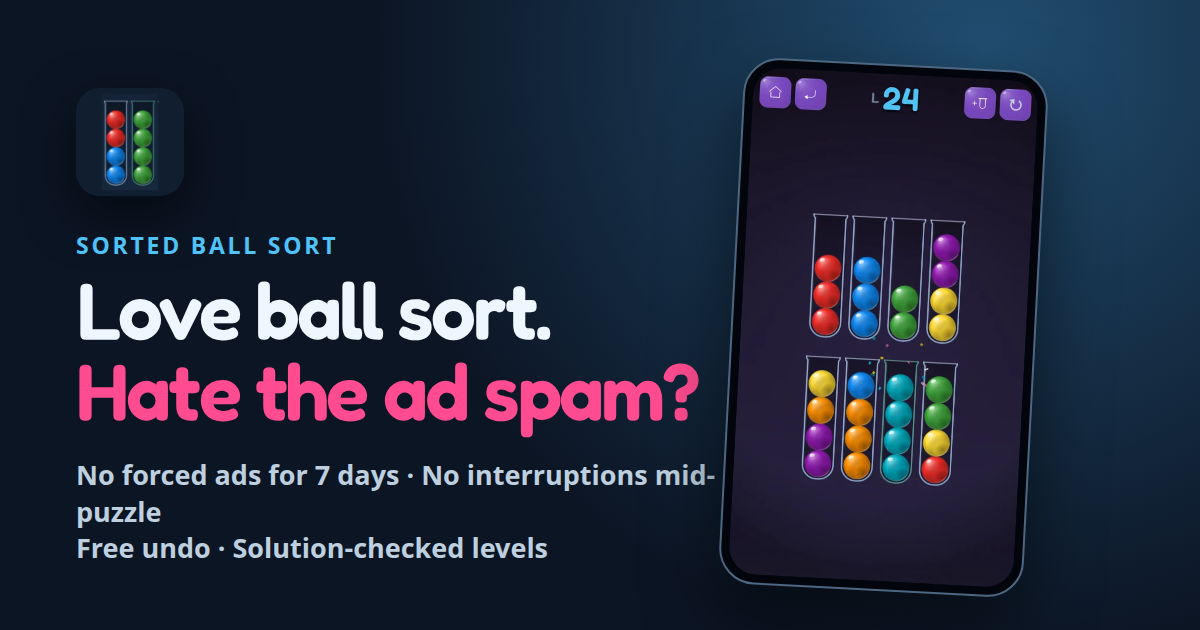
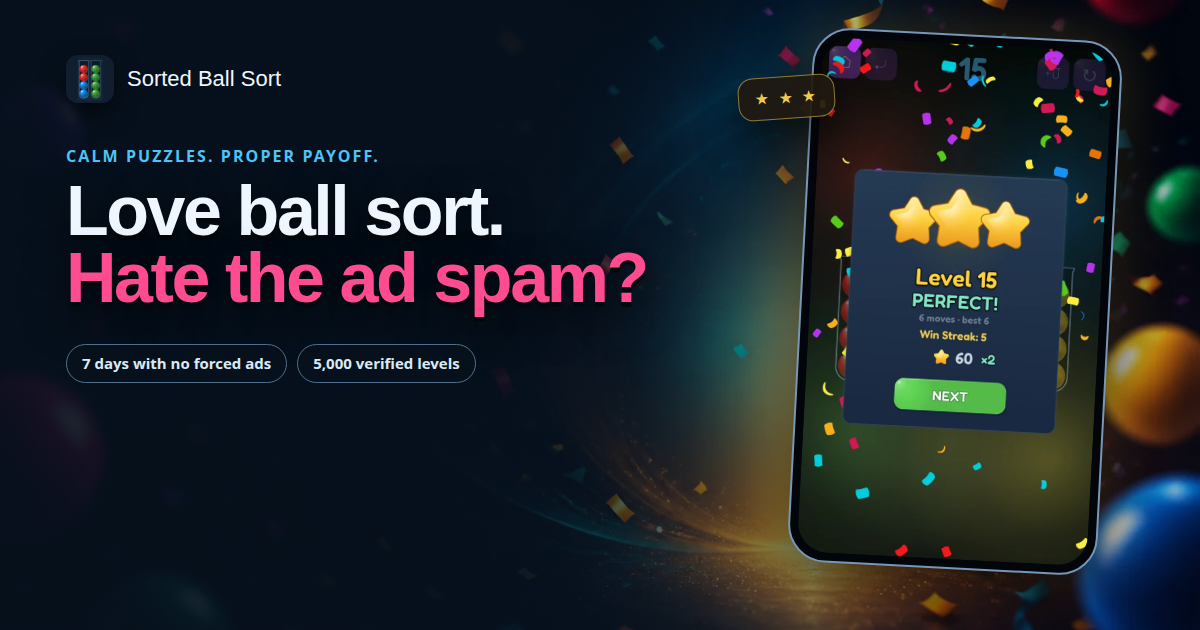
Make Sorted's celebration the visual hero

diff --git a/styles.css b/styles.css
@@ -27,6 +27,7 @@ html { scroll-behavior: smooth; }
 
 body {
   margin: 0;
+  overflow-x: hidden;
   color: var(--ink);
   background:
     radial-gradient(circle at 82% 6%, rgb(79 195 247 / 13%), transparent 28rem),
@@ -80,6 +81,8 @@ nav a { color: var(--muted); text-decoration: none; font-weight: 700; }
 nav a:hover, nav a:focus-visible { color: var(--cyan); }
 
 .hero {
+  position: relative;
+  isolation: isolate;
   display: grid;
   grid-template-columns: minmax(0, 1.1fr) minmax(340px, .9fr);
   gap: clamp(42px, 7vw, 90px);
@@ -89,6 +92,29 @@ nav a:hover, nav a:focus-visible { color: var(--cyan); }
   margin: 0 auto;
   padding: 54px 0 86px;
 }
+
+.hero-backdrop {
+  position: absolute;
+  z-index: -2;
+  inset: 10px -54px 28px;
+  border: 1px solid rgb(92 146 186 / 18%);
+  border-radius: 46px;
+  background:
+    linear-gradient(90deg, rgb(7 17 29 / 82%) 0%, rgb(7 17 29 / 42%) 45%, rgb(7 17 29 / 2%) 80%),
+    url("/assets/celebration-backdrop-v2.webp") 50% 50% / cover no-repeat;
+  box-shadow: 0 34px 100px rgb(0 0 0 / 28%);
+  opacity: .88;
+  overflow: hidden;
+}
+
+.hero-backdrop::after {
+  content: "";
+  position: absolute;
+  inset: 0;
+  background: linear-gradient(180deg, transparent 58%, var(--bg) 100%);
+}
+
+.hero-copy { position: relative; z-index: 3; }
 
 .eyebrow {
   margin: 0 0 12px;
@@ -149,8 +175,20 @@ h1 span { color: var(--pink); }
 .play-mark { width: 0; height: 0; border-top: 14px solid transparent; border-bottom: 14px solid transparent; border-left: 22px solid var(--green); filter: drop-shadow(-5px 0 0 var(--cyan)); }
 .platform-note { margin: 14px 0 0; color: var(--muted); font-size: .88rem; }
 
-.hero-visual { position: relative; display: grid; place-items: center; min-height: 620px; }
-.hero-visual::before { content: ""; position: absolute; inset: 12% 3%; border-radius: 50%; background: radial-gradient(circle, rgb(79 195 247 / 24%), transparent 68%); filter: blur(8px); }
+.hero-visual { position: relative; display: grid; place-items: center; min-height: 650px; }
+.hero-visual::before { content: ""; position: absolute; inset: 7% -8% 3%; border-radius: 50%; background: radial-gradient(circle, rgb(255 205 75 / 30%), rgb(79 195 247 / 17%) 36%, transparent 68%); filter: blur(8px); }
+
+.celebration-ring {
+  position: absolute;
+  width: min(520px, 96%);
+  aspect-ratio: 1;
+  border: 1px solid rgb(255 217 102 / 18%);
+  border-radius: 50%;
+  box-shadow:
+    0 0 0 24px rgb(79 195 247 / 4%),
+    0 0 0 62px rgb(255 76 144 / 3%),
+    inset 0 0 70px rgb(255 205 75 / 9%);
+}
 
 .phone-frame {
   position: relative;
@@ -165,6 +203,16 @@ h1 span { color: var(--pink); }
 }
 
 .phone-frame img { display: block; width: 100%; height: auto; border-radius: 33px; }
+
+.hero-phone {
+  width: min(390px, 78vw);
+  border-color: #7998b7;
+  box-shadow:
+    0 38px 90px rgb(0 0 0 / 48%),
+    0 0 55px rgb(255 208 82 / 14%),
+    inset 0 0 0 3px #111b28;
+  transform: rotate(2.5deg) translateY(4px);
+}
 
 .proof-chip {
   position: absolute;
@@ -184,6 +232,24 @@ h1 span { color: var(--pink); }
 .chip-one { top: 18%; left: -2%; transform: rotate(-3deg); }
 .chip-two { right: -3%; bottom: 17%; transform: rotate(3deg); }
 
+.fanfare-chip {
+  position: absolute;
+  z-index: 3;
+  right: 2%;
+  top: 8%;
+  display: grid;
+  gap: 3px;
+  padding: 12px 16px;
+  border: 1px solid rgb(255 217 102 / 34%);
+  border-radius: 16px;
+  color: #fff3ba;
+  background: linear-gradient(145deg, rgb(92 65 19 / 92%), rgb(35 28 23 / 94%));
+  box-shadow: 0 18px 45px rgb(0 0 0 / 38%);
+  transform: rotate(3deg);
+}
+.fanfare-chip span { color: var(--gold); font-size: .75rem; letter-spacing: .14em; }
+.fanfare-chip strong { font: 600 .88rem/1.2 "Fredoka", sans-serif; }
+
 .trust-strip {
   display: grid;
   grid-template-columns: repeat(4, 1fr);
@@ -199,6 +265,79 @@ h1 span { color: var(--pink); }
 .trust-strip div + div { border-left: 1px solid var(--panel-border); }
 .trust-strip strong { font-family: "Fredoka", sans-serif; }
 .trust-strip span { color: var(--muted); font-size: .82rem; }
+
+.celebration-section {
+  display: grid;
+  grid-template-columns: minmax(380px, .95fr) minmax(0, 1.05fr);
+  gap: clamp(42px, 7vw, 90px);
+  align-items: center;
+  padding-top: 94px;
+  padding-bottom: 94px;
+}
+
+.celebration-showcase {
+  position: relative;
+  min-height: 650px;
+  display: grid;
+  place-items: center;
+  border: 1px solid rgb(77 112 145 / 45%);
+  border-radius: 34px;
+  background:
+    linear-gradient(180deg, rgb(8 17 29 / 18%), rgb(8 17 29 / 88%)),
+    url("/assets/celebration-backdrop-v2.webp") 68% 50% / cover no-repeat;
+  box-shadow: var(--shadow);
+  overflow: hidden;
+}
+
+.celebration-showcase::after {
+  content: "";
+  position: absolute;
+  inset: auto 8% 3%;
+  height: 24%;
+  border-radius: 50%;
+  background: rgb(255 201 74 / 18%);
+  filter: blur(32px);
+}
+
+.celebration-screen {
+  position: relative;
+  z-index: 2;
+  width: min(318px, 72%);
+  padding: 8px;
+  border: 1px solid #7695b4;
+  border-radius: 40px;
+  background: #02060b;
+  box-shadow: 0 32px 70px rgb(0 0 0 / 55%), inset 0 0 0 2px #172536;
+  transform: rotate(-3deg);
+}
+
+.celebration-screen img { display: block; width: 100%; height: auto; border-radius: 32px; }
+
+.celebration-badge {
+  position: absolute;
+  z-index: 3;
+  display: flex;
+  gap: 9px;
+  align-items: center;
+  padding: 11px 15px;
+  border: 1px solid rgb(255 255 255 / 15%);
+  border-radius: 999px;
+  background: rgb(20 34 52 / 92%);
+  box-shadow: 0 16px 35px rgb(0 0 0 / 35%);
+  backdrop-filter: blur(10px);
+  font: 600 .9rem/1 "Fredoka", sans-serif;
+}
+
+.celebration-badge span { display: grid; place-items: center; width: 26px; height: 26px; border-radius: 50%; color: #07111d; }
+.badge-praise { left: 5%; top: 16%; transform: rotate(-5deg); }
+.badge-praise span { background: var(--green); }
+.badge-reward { right: 4%; bottom: 16%; transform: rotate(5deg); }
+.badge-reward span { background: var(--gold); }
+
+.celebration-copy > p:not(.eyebrow) { max-width: 650px; color: #bdccdc; font-size: 1.08rem; }
+
+.reward-notes { display: flex; flex-wrap: wrap; gap: 10px; margin-top: 30px; }
+.reward-notes span { padding: 9px 13px; border: 1px solid rgb(79 195 247 / 24%); border-radius: 999px; color: #d5e9f8; background: rgb(79 195 247 / 8%); font-size: .83rem; font-weight: 800; }
 
 .section { width: min(1160px, calc(100% - 40px)); margin: 0 auto; padding: 112px 0; }
 .section-heading { max-width: 780px; margin-bottom: 42px; }
@@ -282,6 +421,7 @@ footer p { grid-column: 1 / -1; margin: 0; font-size: .78rem; }
 @media (max-width: 960px) {
   .hero { grid-template-columns: 1fr 390px; gap: 26px; }
   .proof-chip { display: none; }
+  .fanfare-chip { right: -1%; }
   .feature-grid { grid-template-columns: repeat(2, 1fr); }
   .final-cta { grid-template-columns: auto 1fr; }
   .final-cta .store-actions { grid-column: 1 / -1; justify-content: flex-start; }
@@ -290,14 +430,20 @@ footer p { grid-column: 1 / -1; margin: 0; font-size: .78rem; }
 @media (max-width: 760px) {
   .site-header nav { display: none; }
   .hero { display: flex; flex-direction: column; min-height: 0; padding-top: 56px; }
+  .hero-backdrop { inset: 14px -10px 18px; background-position: 66% 50%; }
   .hero-copy { text-align: center; }
   .hero-copy .store-actions { justify-content: center; }
-  .hero-visual { min-height: 550px; }
+  .hero-visual { width: 100%; min-height: 600px; }
+  .hero-visual::before { inset: 7% 0 3%; }
+  .fanfare-chip { right: 4%; top: 6%; }
   .trust-strip { grid-template-columns: repeat(2, 1fr); }
   .trust-strip div:nth-child(3) { border-left: 0; border-top: 1px solid var(--panel-border); }
   .trust-strip div:nth-child(4) { border-top: 1px solid var(--panel-border); }
   .ad-timeline { grid-template-columns: 1fr; }
   .step { margin-bottom: 22px; }
+  .celebration-section { grid-template-columns: 1fr; }
+  .celebration-copy { order: -1; text-align: center; }
+  .reward-notes { justify-content: center; }
   .solvable-section { grid-template-columns: 1fr; }
   .code-proof { order: -1; }
   .final-cta { text-align: center; grid-template-columns: 1fr; justify-items: center; padding: 28px 22px; }
@@ -312,9 +458,16 @@ footer p { grid-column: 1 / -1; margin: 0; font-size: .78rem; }
   .hero { padding-bottom: 58px; }
   .store-actions { display: grid; width: 100%; }
   .store-button { width: 100%; }
-  .hero-visual { min-height: 500px; }
+  .hero-visual { min-height: 535px; }
   .phone-frame { width: min(310px, 82vw); }
+  .hero-phone { width: min(320px, 82vw); }
+  .fanfare-chip { right: 0; top: 2%; padding: 10px 13px; }
   .section { padding: 82px 0; }
+  .celebration-showcase { min-height: 560px; }
+  .celebration-screen { width: min(286px, 76%); }
+  .celebration-badge { font-size: .78rem; }
+  .badge-praise { left: 2%; }
+  .badge-reward { right: 1%; }
   .trust-strip { grid-template-columns: 1fr; }
   .trust-strip div + div { border-top: 1px solid var(--panel-border); border-left: 0; }
   .feature-grid { grid-template-columns: 1fr; }

diff --git a/index.html b/index.html
@@ -23,7 +23,8 @@
 
   <link rel="icon" href="/assets/sorted-icon.webp" type="image/webp">
   <link rel="preload" href="/assets/fredoka-semibold.ttf" as="font" type="font/ttf" crossorigin>
-  <link rel="preload" href="/assets/sorted-gameplay.webp" as="image" type="image/webp" fetchpriority="high">
+  <link rel="preload" href="/assets/celebration-backdrop-v2.webp" as="image" type="image/webp">
+  <link rel="preload" href="/assets/level-complete-celebration-v2.webp" as="image" type="image/webp" fetchpriority="high">
   <link rel="stylesheet" href="/styles.css">
 
   <script type="application/ld+json">
@@ -36,7 +37,8 @@
     "url": "https://sortedballsort.com/",
     "image": "https://sortedballsort.com/assets/sorted-icon.webp",
     "screenshot": [
-      "https://sortedballsort.com/assets/sorted-gameplay.webp",
+      "https://sortedballsort.com/assets/level-complete-celebration-v2.webp",
+      "https://sortedballsort.com/assets/tube-celebration-v2.webp",
       "https://sortedballsort.com/assets/sorted-colorblind.webp"
     ],
     "applicationCategory": "GameApplication",
@@ -84,6 +86,7 @@
     </a>
     <nav>
       <a href="#ads">Ads</a>
+      <a href="#celebration">Celebration</a>
       <a href="#solvable">Solvability</a>
       <a href="#questions">Questions</a>
     </nav>
@@ -91,6 +94,7 @@
 
   <main id="main">
     <section class="hero">
+      <div class="hero-backdrop" aria-hidden="true"></div>
       <div class="hero-copy">
         <p class="eyebrow">The official Sorted app by Tom Appleton</p>
         <h1>Love ball sort.<br><span>Hate the ad spam?</span></h1>
@@ -108,12 +112,14 @@
         <p class="platform-note">Free on iPhone, iPad and Android · Plays offline</p>
       </div>
 
-      <div class="hero-visual" aria-label="Sorted gameplay showing coloured balls in tubes">
-        <div class="phone-frame">
-          <img src="/assets/sorted-gameplay.webp" width="540" height="960" alt="A level in Sorted with coloured balls being organised into glass tubes" fetchpriority="high">
+      <div class="hero-visual" aria-label="Sorted celebrating a perfectly completed ball-sort level">
+        <div class="celebration-ring" aria-hidden="true"></div>
+        <div class="phone-frame hero-phone">
+          <img src="/assets/level-complete-celebration-v2.webp" width="700" height="1244" alt="Sorted level 15 complete with three gold stars, Perfect praise, a five-win streak and falling confetti" fetchpriority="high">
         </div>
         <div class="proof-chip chip-one"><strong>7 days</strong><span>with no forced ads</span></div>
         <div class="proof-chip chip-two"><strong>5,000</strong><span>levels pre-verified</span></div>
+        <div class="fanfare-chip"><span aria-hidden="true">★ ★ ★</span><strong>Every win gets its moment</strong></div>
       </div>
     </section>
 
@@ -122,6 +128,27 @@
       <div><strong>Free undo</strong><span>no coins or adverts</span></div>
       <div><strong>No paid boosters</strong><span>or level skips</span></div>
       <div><strong>Works offline</strong><span>no Wi-Fi needed</span></div>
+    </section>
+
+    <section class="section celebration-section" id="celebration">
+      <div class="celebration-showcase">
+        <div class="celebration-screen">
+          <img src="/assets/tube-celebration-v2.webp" width="700" height="1244" alt="A completed cyan tube glowing as colourful curled confetti flies across a real Sorted puzzle" loading="lazy">
+        </div>
+        <div class="celebration-badge badge-praise"><span>✓</span><strong>Nice sort!</strong></div>
+        <div class="celebration-badge badge-reward"><span>★</span><strong>Perfect clear</strong></div>
+      </div>
+      <div class="celebration-copy">
+        <p class="eyebrow">Calm play. Proper payoff.</p>
+        <h2>Sorting should feel satisfying.</h2>
+        <p>Sorted keeps the puzzle focused, then makes the win land: glowing completed tubes, praise, crisp haptics, colourful ribbons and falling confetti.</p>
+        <p>Finish a level and three staged stars, best-move feedback, win streaks and score count-ups turn a tidy board into a proper little celebration.</p>
+        <div class="reward-notes" aria-label="Celebration features">
+          <span>Glowing tube finishes</span>
+          <span>Praise and haptics</span>
+          <span>Three-star level payoff</span>
+        </div>
+      </div>
     </section>
 
     <section class="section ads-section" id="ads">
